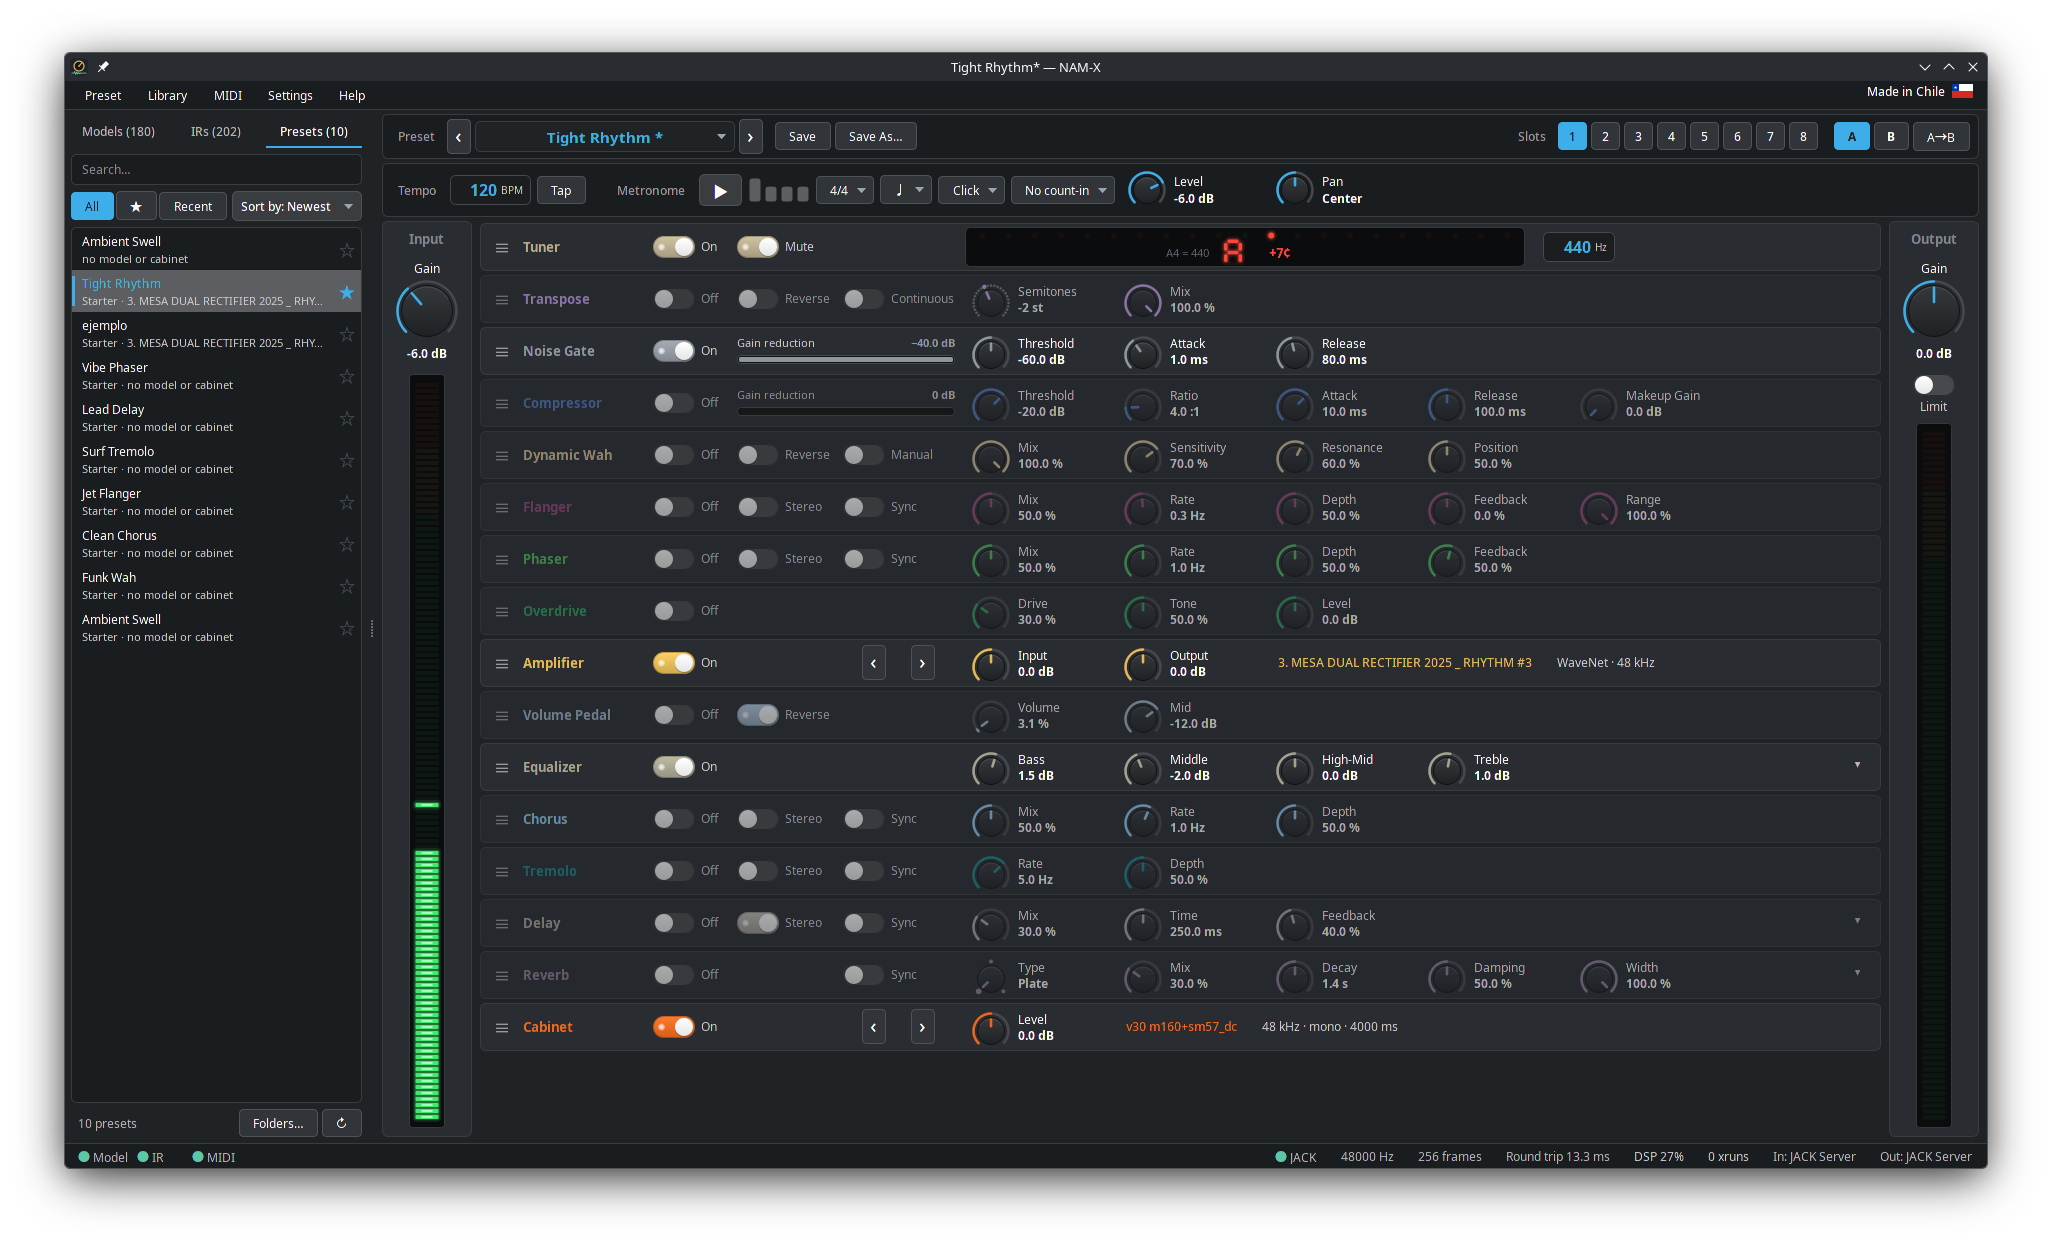
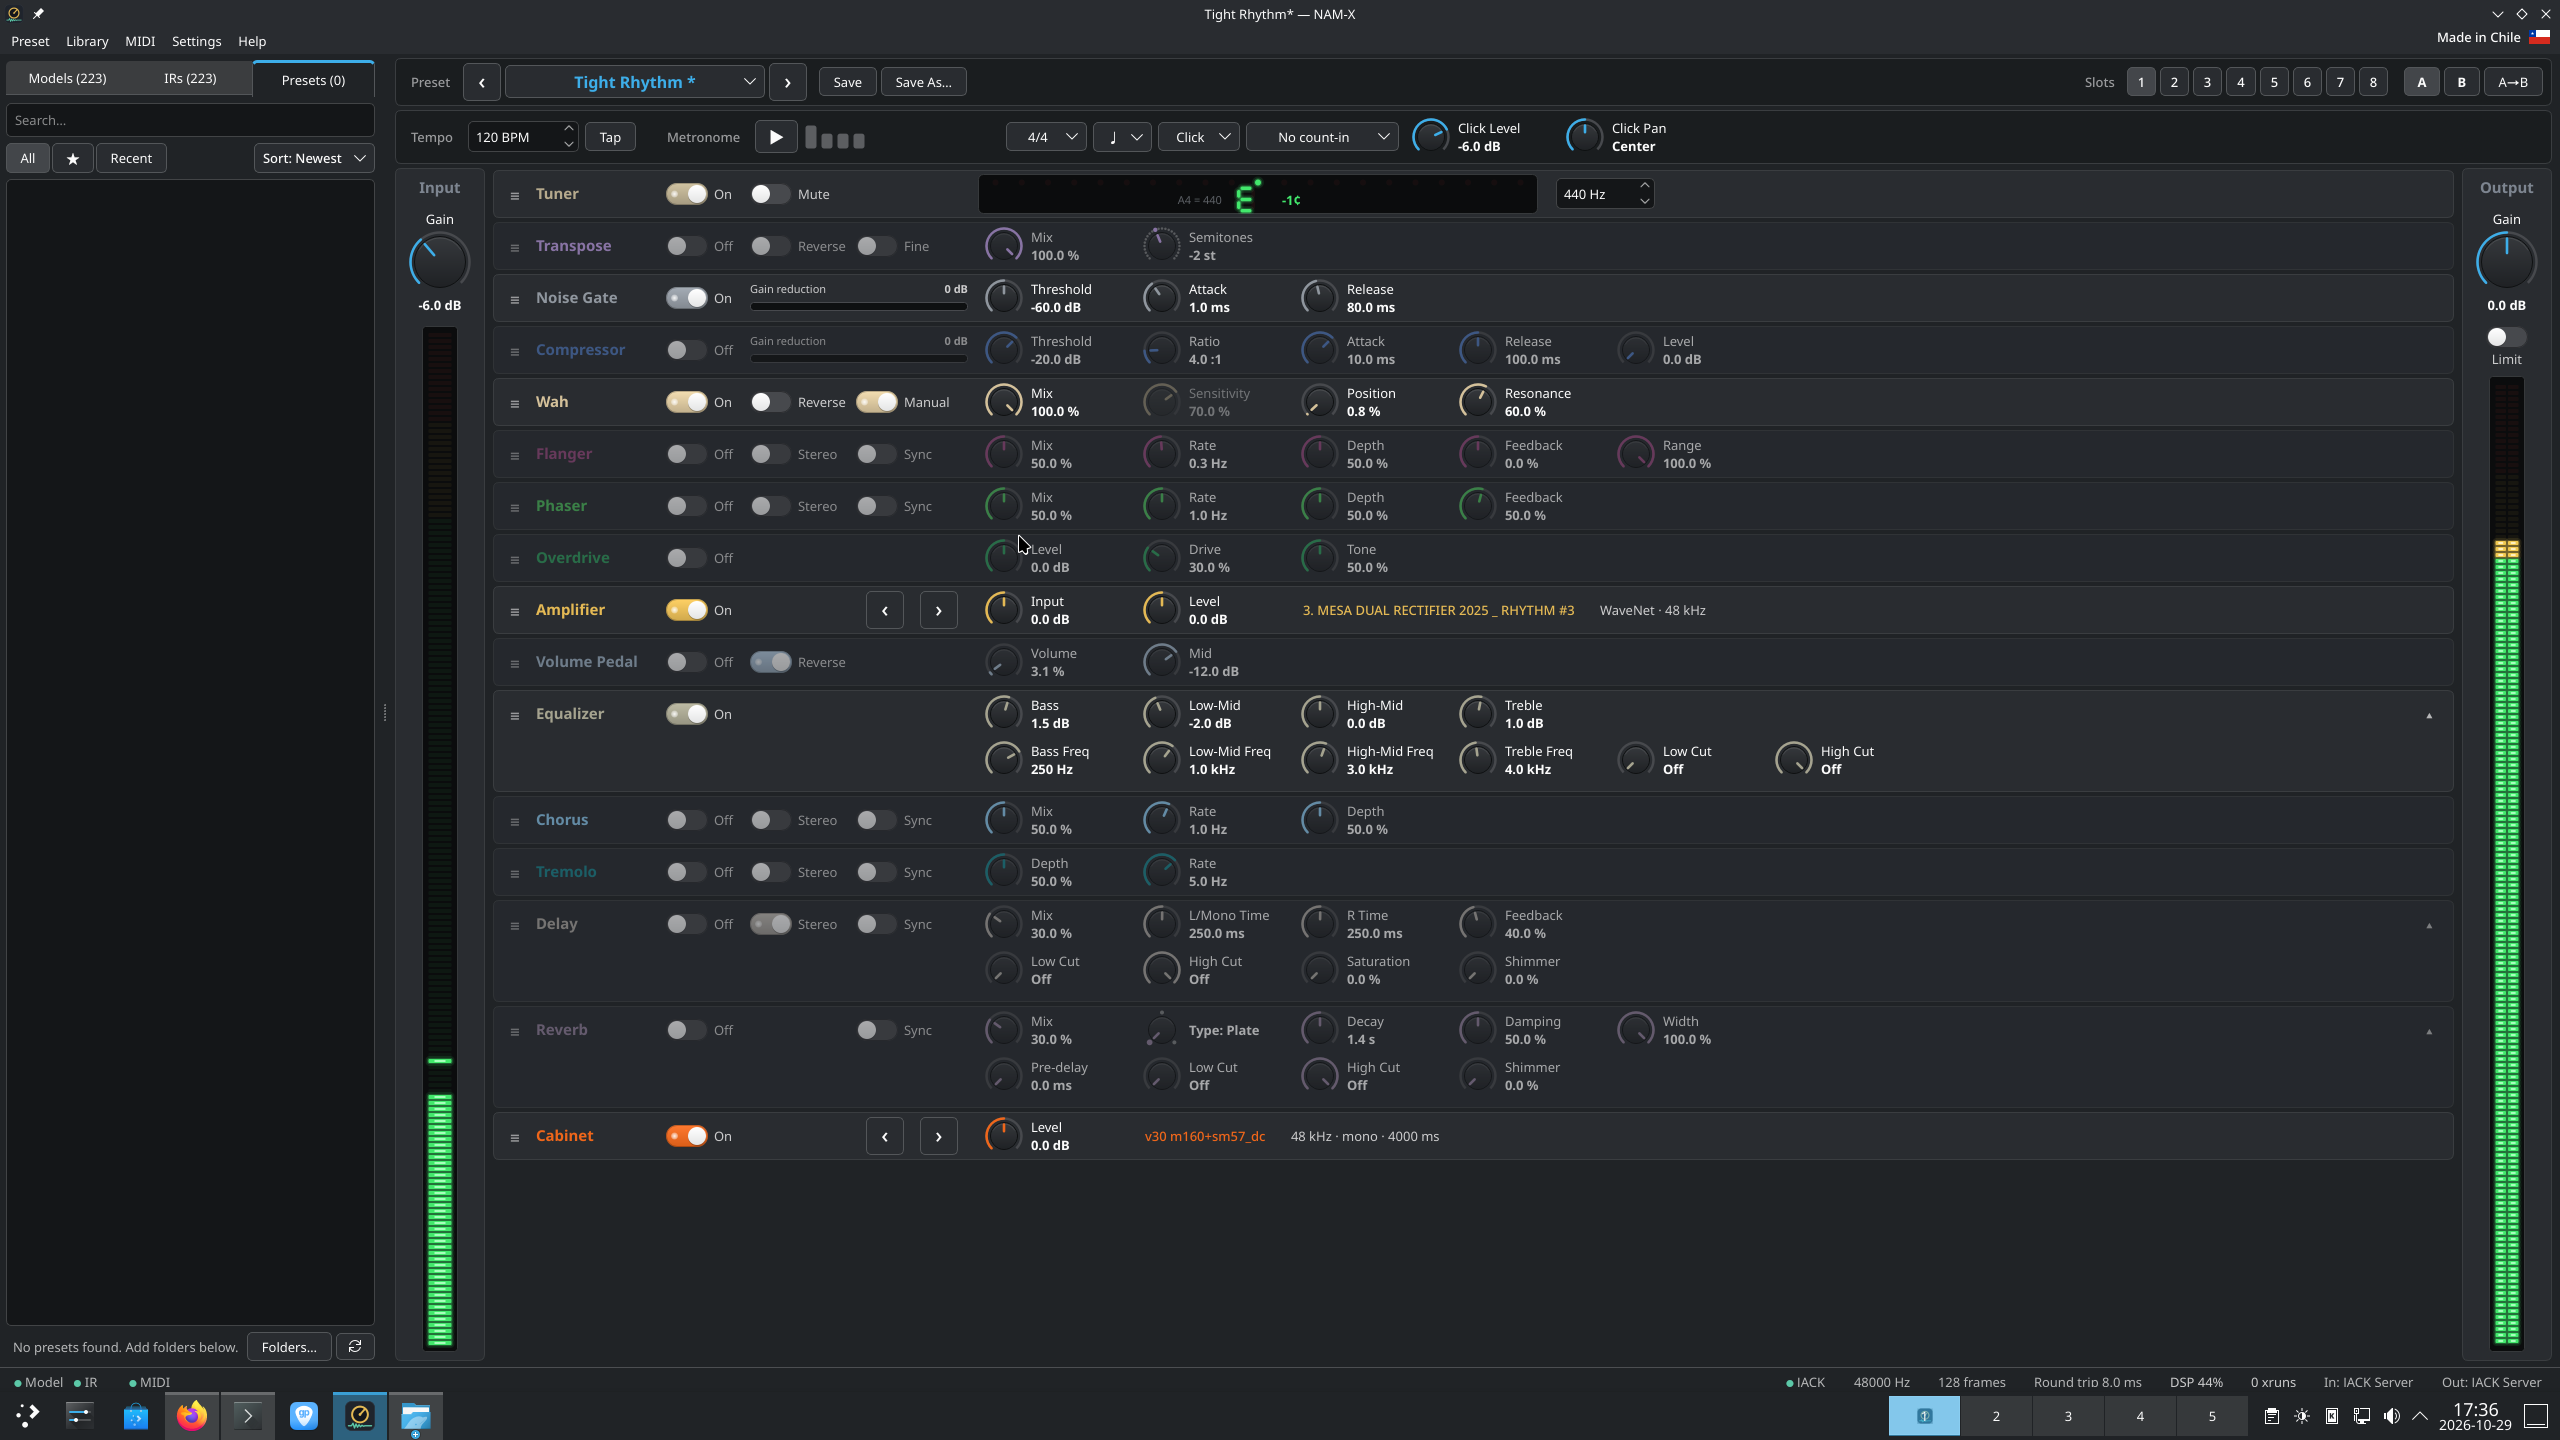
README: new screenshots for v0.0.2. The top image (docs/screenshots/main.png, also what the AppStream metadata links to) is the rack in the Dark theme on KDE Plasma; a Screenshots section adds the Light theme on Plasma with the Appearance settings, the Dark theme on GNOME (Fusion, drawn like KDE, as

diff --git a/README.md b/README.md
@@ -11,7 +11,7 @@ A Linux-first, standalone, native Qt 6 app for Neural Amp Modeler, with a built-
 * No bullshit
 * ...and no warranty :)
 
-![NAM-X main window](docs/screenshots/main.png)
+![NAM-X main window: the effects rack in the Dark theme on KDE Plasma](docs/screenshots/main.png)
 
 ## Why it exists
 
@@ -29,6 +29,28 @@ left. I wanted the thing I actually use when I pick up the guitar:
   [NeuralAmpModelerCore](https://github.com/sdatkinson/NeuralAmpModelerCore), the same
   inference the official plugin uses. The models come from the community.
 - Batteries included: tuner, metronome, tempo sync, MIDI mapping and learn, and a library panel for models, IRs and presets.
+
+## Screenshots
+
+**Light theme on KDE Plasma**, with the Appearance settings: follow the system, Dark, Light, or your own theme file.
+
+![NAM-X in the Light theme on KDE Plasma, the Appearance settings open](docs/screenshots/linux-kde-light.png)
+
+**GNOME**, in the Dark theme: where the desktop has no Qt style of its own, NAM-X draws its controls the way KDE does (as the AppImage does everywhere).
+
+![NAM-X in the Dark theme on GNOME, the Appearance settings open](docs/screenshots/linux-gnome-dark.png)
+
+**Windows with ASIO**: the interface's own ASIO driver chosen in the Audio settings, its control panel beside them.
+
+![NAM-X on Windows, the Audio settings on ASIO beside the interface's ASIO control panel](docs/screenshots/windows-light-asio.png)
+
+**Library folders**: models, IRs and presets come from folders you pick, scanned and followed for changes.
+
+![NAM-X's Library settings with a folder being added](docs/screenshots/linux-dark-preset-loader.png)
+
+**MIDI**: input devices, and mappings from notes, CCs and program changes to knobs, switches and preset slots.
+
+![NAM-X's MIDI settings and the MIDI Mappings window](docs/screenshots/linux-dark-midi-mappings.png)
 
 ## Installation
 
